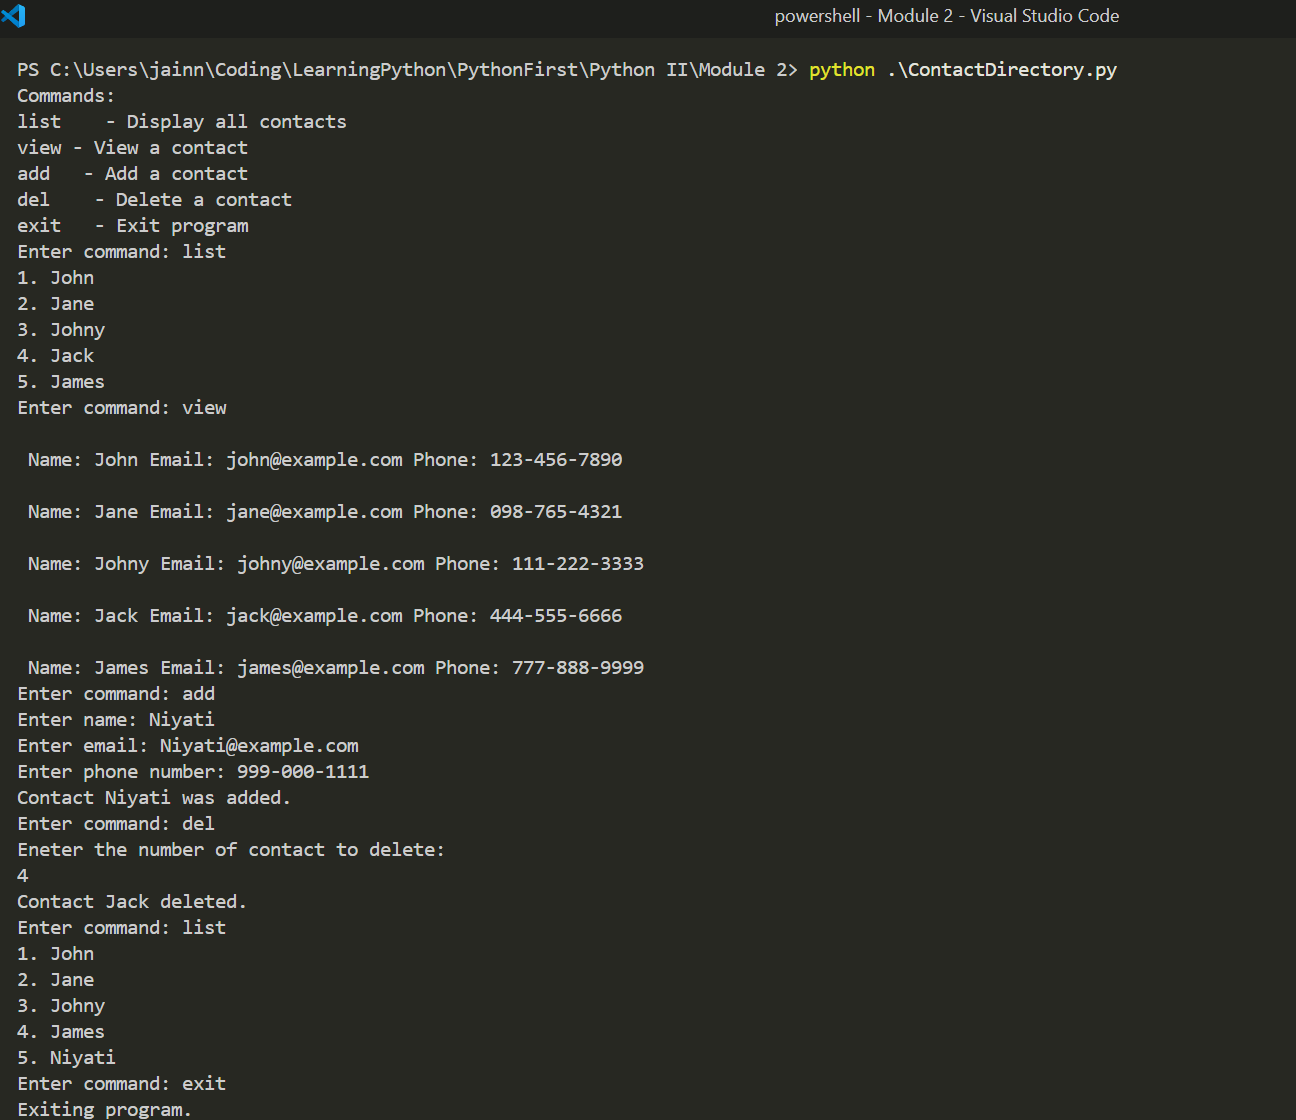
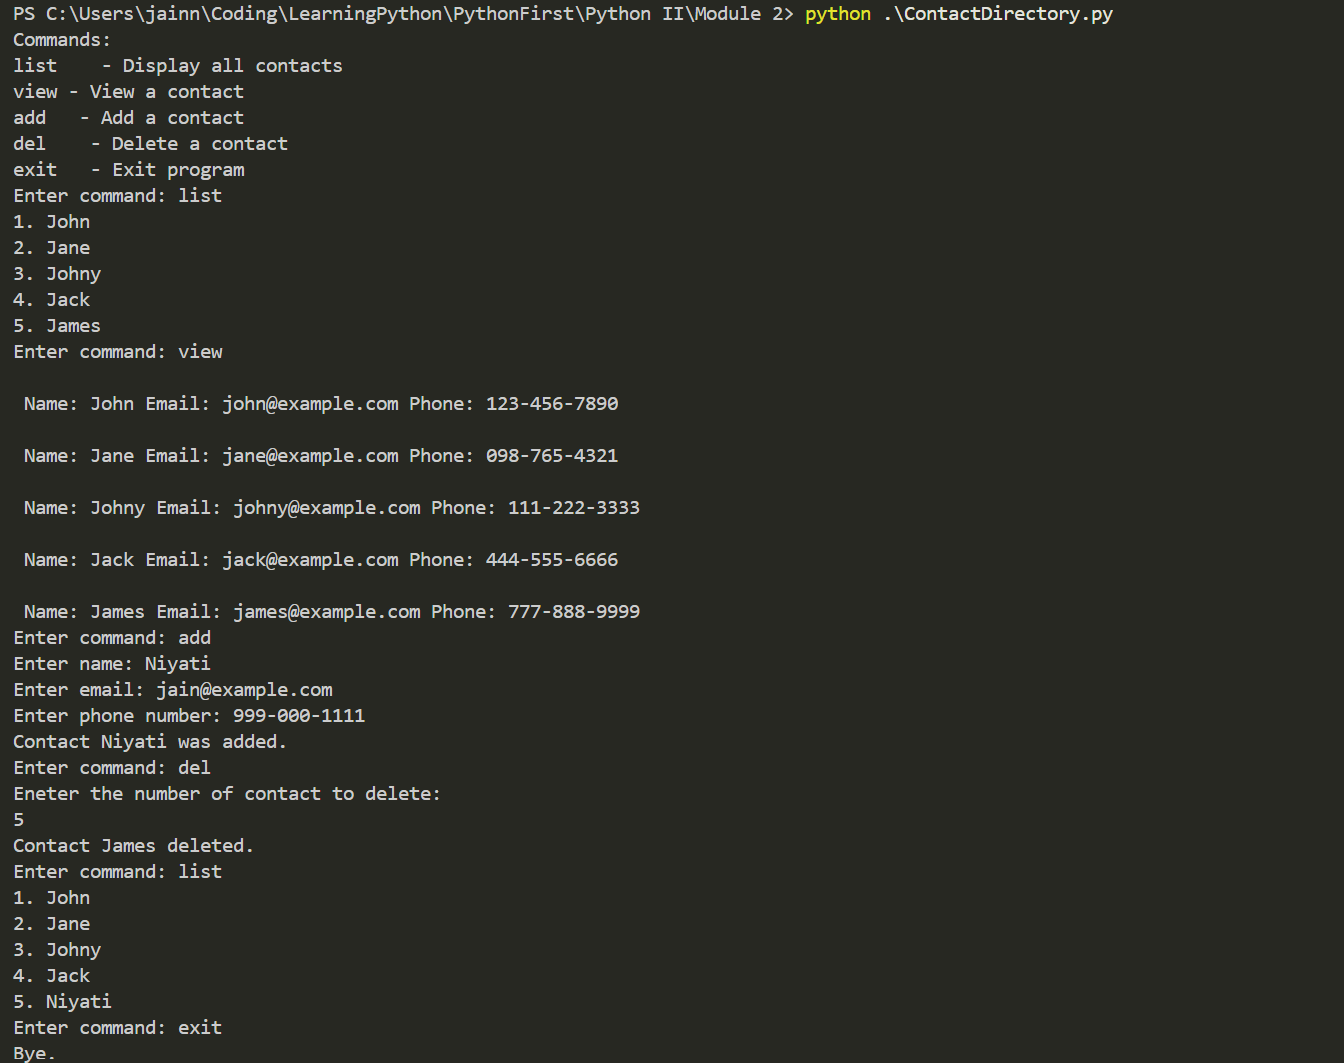
changes is exit command output

Changed region(s): [[0.0, 0.0, 0.8642, 1.0], [0.6173, 0.0621, 0.679, 0.0931]]

diff --git a/Python II/Module 2/ContactDirectory.py b/Python II/Module 2/ContactDirectory.py
@@ -56,7 +56,7 @@ def main():
             else:
                 print("Invalid number.")
         elif command == "exit":
-            print("Exiting program.")
+            print("Bye.")
             break
         else:
             print("Invalid command. Please try again.")
